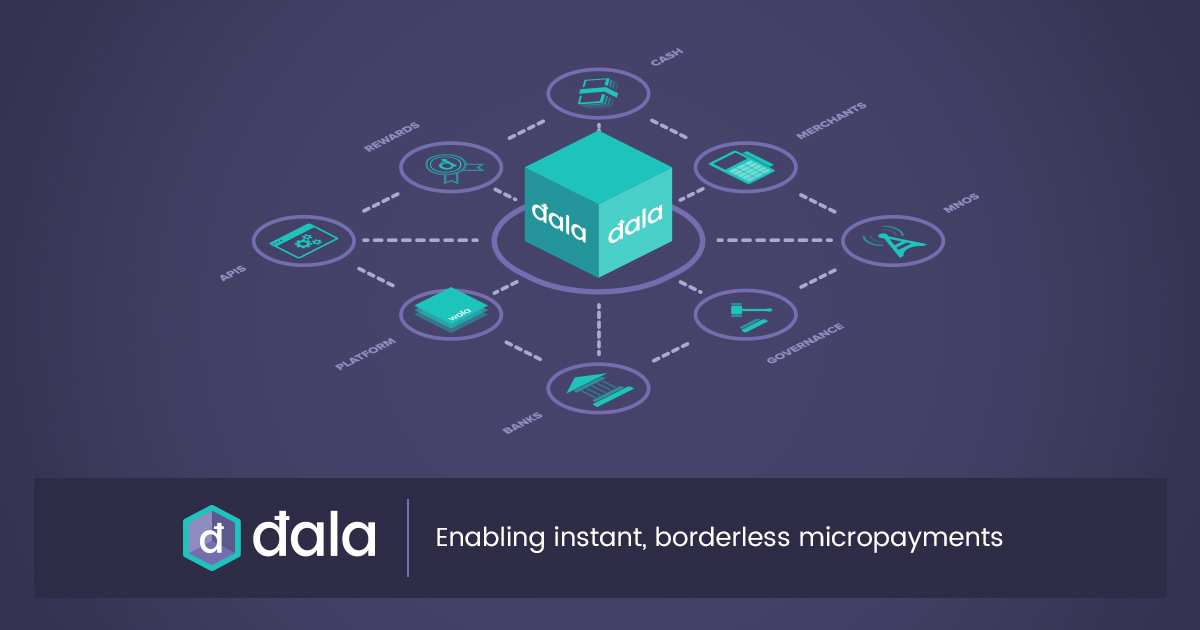
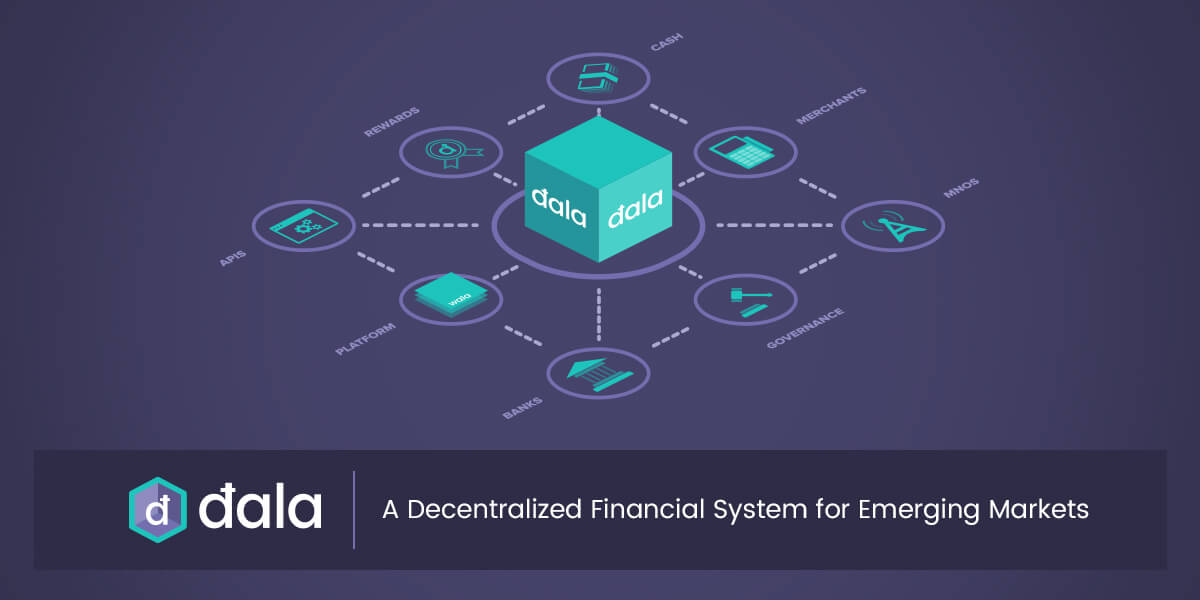
text changes and new section added

diff --git a/src/components/DalaProtocols/DalaProtocols.js b/src/components/DalaProtocols/DalaProtocols.js
@@ -1,0 +1,64 @@
+import React, { Component } from 'react';
+// styles
+import './DalaProtocols.css';
+
+// images
+import Soko from './images/soko.svg';
+import Kazi from './images/kazi.svg';
+import Kopa from './images/kopa.svg';
+
+class DalaProtocols extends Component {
+
+  render() {
+    return (
+      <section id="DalaProtocols" name="pageDalaProtocols">
+        <div className="container">
+          <div className="columns">
+            <div className="column is-8 is-offset-2">
+              <header className="section-header has-text-centered">
+                <h2 className="section-title">
+                  Dala Decentralized Protocols
+                </h2>
+                <h3 className="section-description">
+                  A core set of decentralized financial services are being built to drive immediate engagement in the Dala economy. These protocols will enable consumers to earn, save, borrow, and transact with Dala:
+                </h3>
+              </header>
+            </div>
+          </div>
+        </div>
+        <div className="container">
+          <div className="section-content">
+            <div className="columns is-desktop">
+              <div className="column is-one-third-desktop add-purplebg-1">
+                <div className="has-text-centered protocol-logo"><img alt="Kopa Protocol Logo" src={Kopa} /></div>
+                <p className="has-text-centered add-bold"> A decentralized and trustless lending protocol</p>
+                <div className="protocol-divider" />
+                <p>
+                  Kopa is a Dharma Protocol relayer dApp that will enable consumers to obtain Dala loans offered by Dala holders worldwide. Through Kopa, more efficiency will come to the lending market while those with Dala will be able to earn additional Dala through repaid loan interest.
+                </p>
+              </div>
+              <div className="column is-one-third-desktop add-purplebg-2">
+                <div className="has-text-centered protocol-logo"><img alt="Soko Protocol Logo" src={Soko} /></div>
+                <p className="has-text-centered add-bold">A decentralized and trustless marketplace for digital products and services</p>
+                <div className="protocol-divider" />
+                <p>
+                  Soko will enable any enterprise, small business, or entrepreneur to offer their existing or new digital services to anyone who wants to consume or relay them to their consumers. Products and services can range from financial instruments like a 24-hour insurance cover to utility products like airtime and electricity.
+                </p>
+              </div>
+              <div className="column is-one-third-desktop add-purplebg-3">
+                <div className="has-text-centered protocol-logo"><img alt="Kazi Protocol Logo" src={Kazi} /></div>
+                <p className="has-text-centered add-bold">A decentralized and trustless marketplace for microjobs</p>
+                <div className="protocol-divider" />
+                <p>
+                  Kazi will enable any organization to offer earning opportunities to users in the Dala network. The Kazi protocol defines a procedure for defining, administering, and fulfilling microjobs using a set of smart contracts and standardized interfaces.
+                </p>
+              </div>
+            </div>
+          </div>
+        </div>
+      </section>
+    );
+  }
+}
+
+export default DalaProtocols;

diff --git a/src/components/DalaEcosystem/DalaEcosystem.js b/src/components/DalaEcosystem/DalaEcosystem.js
@@ -25,7 +25,7 @@ class DalaEcosystem extends Component {
                   Dala Ecosystem
                 </h2>
                 <h3 className="section-description">
-                  Dala is designed to bring 3.5 billion underserved consumers into the formal financial system.
+                  Dala is designed to bring 3.5 billion underserved consumers into a new decentralized financial system.
                 </h3>
               </header>
             </div>
@@ -48,11 +48,7 @@ class DalaEcosystem extends Component {
                       <img alt="" src={DalaLogo}/>
                     </div>
                     <p>
-                      The Dala ecosystem expands through partnerships across borders and financial services, enabling
-                      consumers and enterprises to transact, save, lend, and invest with Dala. The Dala Foundation’s
-                      long-term goal is to maximize the value of the Dala ecosystem. The largest driver of Dala network
-                      value is the size and utility of the network to end-users, which the Foundation will drive
-                      through token rewards and the provision of software tools to enable the use of Dala.
+                      The Dala ecosystem expands across borders and financial services, enabling consumers to earn, save, borrow, and transact with Dala. The Dala Foundation’s long-term goal is to maximize the value of the Dala ecosystem. The largest driver of Dala network value is the size and utility of the network to end-users, which the Foundation drives through token rewards and the provision of decentralized protocols to enable the use of Dala.
                     </p>
                   </div>
                   <div className="hexagon-graphic">
@@ -63,7 +59,7 @@ class DalaEcosystem extends Component {
                       <img alt="" src={WalaLogo}/>
                     </div>
                     <p>
-                      The first application to make use of Dala is the Wala Financial Platform. Since launch (April 2018), the Dala token has had utility within the Wala Financial Platform where a user can transfer Dala to other Wala users for free, remit across borders, and redeem for airtime, data, and other value-added services. Together, the Dala token and the Wala Financial Platform are removing all barriers enabling zero-fee and accessible financial services.
+                      The first application to make use of Dala is the Wala Financial Platform. Since launch (April 2018), the Dala token has had utility within Wala where a user can send Dala to other Wala users at zero-fees, remit across borders, and purchase value-added services like mobile data, electricity, and tv services. Together, Dala and Wala are removing all barriers enabling zero-fee and accessible financial services.
                     </p>
                   </div>
                 </div>

diff --git a/src/components/AboutDala/AboutDala.js b/src/components/AboutDala/AboutDala.js
@@ -21,7 +21,7 @@ class AboutDala extends Component {
                   About Dala
                 </h2>
                 <h3 className="section-description">
-                  To enable a borderless financial system for emerging market consumers, a new crypto-token, Dala, was issued by the Dala Foundation.
+                  To enable a decentralized financial system for emerging market consumers, a new crypto-token, Dala, was issued by the Dala Foundation.
                 </h3>
               </header>
             </div>
@@ -34,10 +34,10 @@ class AboutDala extends Component {
                 <div className="columns is-desktop">
                   <div className="column float-on-desktop">
                     <p>
-                      The Dala utility token is a general-purpose ERC-20 cryptographic token developed by the Dala Foundation and issued on the public Ethereum blockchain. The token is fractionally divisible and is independent of all local currencies and cryptocurrencies. Consumers will be able to engage in the Dala ecosystem by making transfers using their own token wallets, via the Wala Financial Platform (Dala's launch partner), or through other applications built using the Dala API.
+                      Dala is an open source multi-chain crypto-asset issued on the public Ethereum blockchain. It can be transacted on a number of blockchains and can be used for consumption on a number of decentralized protocols. Through Dala protocols, consumers have access to borderless, low cost, efficient, and unique financial services enabling them to earn, save, borrow, and transact in a new decentralized financial system. Today, consumers can engage in the Dala ecosystem by making transfers using their own token wallets, via Wala (Dala's launch partner), or through other applications built using the Dala API.
                     </p>
                     <p>
-                      The Dala Foundation is a private exempted company incorporated in the Cayman Islands and is intended to become a fully-decentralized autonomous organization (known as a DAO). However, due to the infancy of the crypto governance space, the Dala Foundation will assist with providing a governance forum, administer and maintain the Dala token economy in the short-term.
+                      The Dala Foundation is a private exempted company incorporated in the Cayman Islands and is intended to become a fully-decentralized autonomous organization (DAO). However, due to the infancy of the crypto governance space, the Dala Foundation will assist with providing a governance forum, administer and maintain the Dala token economy in the short-term.
                     </p>
                   </div>
                   <div className="column is-offset-5-desktop is-7-desktop is-offset-4-widescreen is-8-widescreen">

diff --git a/public/index.html b/public/index.html
@@ -14,22 +14,22 @@
 
     <link rel="shortcut icon" href="%PUBLIC_URL%/favicon.ico">
 
-    <title>Dala | Enabling instant, borderless micropayments</title>
-    <meta name="description" content="Dala, a cryptocurrency, designed to bring 3.5 billion people underserved consumers into the formal financial system. Learn more & become an ecosystem partner.">
+    <title>Dala | A Decentralized Financial System for Emerging Markets</title>
+    <meta name="description" content="Dala, an open source multi-chain crypto-asset and decentralized financial system enabling consumers to save, earn, borrow, and transact. Get in touch to learn more.">
     <link async href="https://fonts.googleapis.com/css?family=Poppins:300,400,600" rel="stylesheet">
     <link rel="stylesheet" type="text/css" charset="UTF-8" href="https://cdnjs.cloudflare.com/ajax/libs/slick-carousel/1.6.0/slick.min.css" />
     <link rel="stylesheet" type="text/css" href="https://cdnjs.cloudflare.com/ajax/libs/slick-carousel/1.6.0/slick-theme.min.css" />
 
-    <meta property="og:title" content="Dala | Enabling instant, borderless micropayments" />
-    <meta property="og:description" content="Dala, a cryptocurrency, designed to bring 3.5 billion people underserved consumers into the formal financial system. Learn more & become an ecosystem partner." />
+    <meta property="og:title" content="Dala | A Decentralized Financial System for Emerging Markets" />
+    <meta property="og:description" content="Dala, an open source multi-chain crypto-asset and decentralized financial system enabling consumers to save, earn, borrow, and transact. Get in touch to learn more." />
     <meta property="og:image" content="%PUBLIC_URL%/fb_social.jpg" />
     <meta property="og:url" content="https://dala.org" />
 
     <meta name="twitter:card" content="summary_large_image" />
     <meta name="twitter:site" content="https://dala.org" />
     <meta name="twitter:creator" content="@DalaFoundation" />
-    <meta name="twitter:title" content="Dala | Enabling instant, borderless micropayments" />
-    <meta name="twitter:description" content="Dala, a cryptocurrency, designed to bring 3.5 billion people underserved consumers into the formal financial system. Learn more & become an ecosystem partner." />
+    <meta name="twitter:title" content="Dala | A Decentralized Financial System for Emerging Markets" />
+    <meta name="twitter:description" content="Dala, an open source multi-chain crypto-asset and decentralized financial system enabling consumers to save, earn, borrow, and transact. Get in touch to learn more." />
     <meta name="twitter:image" content="%PUBLIC_URL%/twitter_social.jpg" />
 
     <script>

diff --git a/src/components/DalaProtocols/DalaProtocols.scss b/src/components/DalaProtocols/DalaProtocols.scss
@@ -1,0 +1,105 @@
+@import '../../utils/styles/all';
+
+#DalaProtocols {
+  padding-bottom: gridbase-multiplier(4);
+  margin-right: 36px;
+  margin-left: 36px;
+
+  .section-header {
+    padding-bottom: gridbase-multiplier(2);
+  }
+
+  .section-content {
+    .columns {
+      @include border-radius;
+
+      box-shadow: $layout-elevation-3;
+      position: relative;
+
+      .add-purplebg-1 {
+        background: $color-walateal-shade3;
+
+        @media screen and (min-width: $desktop) {
+          border-bottom-left-radius: 3px;
+        }
+
+        .protocol-logo {
+          height: 78px;
+          margin-top: 26px;
+
+          img {
+            height: 52px
+          }
+        }
+      }
+      .add-purplebg-2 {
+        background: $color-walateal-shade2;
+
+        .protocol-logo {
+          height: 78px;
+          margin-top: 26px;
+
+          img {
+            height: 42px
+          }
+        }
+      }
+      .add-purplebg-3 {
+        background: $color-walateal-shade3;
+
+        @media screen and (min-width: $desktop) {
+          border-bottom-right-radius: 3px;
+        }
+
+        .protocol-logo {
+          height: 78px;
+          margin-top: 26px;
+
+          img {
+            height: 40px
+          }
+        }
+      }
+    }
+
+    p {
+      color: white;
+      margin-right: 18px;
+      margin-left: 18px;
+      padding-left: 18px;
+      padding-right: 18px;
+
+      @media screen and (min-width: $desktop) {
+        margin-right: 0;
+        margin-left: 0;
+        max-width: 434px;
+      }
+    }
+
+    .add-bold {
+      font-family: 'poppins_regular', sans-serif;
+      font-size: 16px;
+      line-height: 26px;
+      position: relative;
+
+      @media screen and (min-width: $desktop) {
+        height: 78px;
+      }
+      @media screen and (min-width: $fullhd) {
+        height: 65px;
+      }
+    }
+
+    .protocol-divider {
+      width: 70%;
+      margin: 0 auto 26px auto;
+      height: 4px;
+      background-color: $color-walateal-shade1;
+    }
+  }
+
+  @media screen and (min-width: $desktop) {
+    margin-right: 0;
+    margin-left: 0;
+  }
+}

diff --git a/src/components/ProductTimeline/ProductTimeline.js b/src/components/ProductTimeline/ProductTimeline.js
@@ -48,7 +48,7 @@ class ProductTimeline extends Component {
                       <img src={DalaTokenBlank} alt=""/>
                       <span>OCT<br/>2017</span>
                     </div>
-                    <div className="timeline-content"><span>Dala Foundation annouces the issuance of a crypto-token that enables zero-fee and instantaneous micro transactions for the masses.</span>
+                    <div className="timeline-content"><span>Dala Foundation announces the issuance of a crypto-token that enables zero-fee and instantaneous micro transactions for the masses.</span>
                     </div>
                   </li>
                   <li className="is-clearfix is-flex-desktop">
@@ -64,15 +64,15 @@ class ProductTimeline extends Component {
                       <span>Q1<br/>2018</span>
                       <img src={DalaTokenBlank} alt=""/>
                     </div>
-                    <div className="timeline-content"><span>Launch Dala wallet with functionality to earn, redeeem, and transact with Dala.<br/><br/>Expand the Dala ecosystem through enterprise partnerships.</span>
+                    <div className="timeline-content"><span>Dala wallet launched with functionality to earn, redeem, and transact with Dala.</span>
                     </div>
                   </li>
                   <li className="is-clearfix is-flex-desktop">
                     <div className="timeline-date">
-                      <span>Q2<br/>2018</span>
+                      <span>Q3<br/>2018</span>
                       <img src={DalaTokenBlank} alt=""/>
                     </div>
-                    <div className="timeline-content"><span>Release Dala Enterprise rewards engine.</span></div>
+                    <div className="timeline-content"><span>Release first Dala decentralized protocols to expand Dala ecosystem and utility.</span></div>
                   </li>
                 </ul>
               </div>

diff --git a/src/components/RewardsEngine/RewardsEngine.js b/src/components/RewardsEngine/RewardsEngine.js
@@ -28,10 +28,10 @@ class RewardsEngine extends Component {
             <div className="columns is-desktop">
               <div className="column float-on-desktop rewards-engine-content">
                 <p>
-                  To enable a robust Dala ecosystem, the Dala Foundation will incentivize users and ecosystem partners through a rewards model. The Dala token rewards model has been proven, supports the acquisition of billions of consumers globally and drives adoption of merchants, SMEs, and enterprises.
+                  To enable a robust Dala ecosystem, the Dala Foundation incentivizes users and ecosystem partners through a rewards model. The Dala token rewards model has been proven, supports the acquisition of billions of consumers globally and drives adoption of merchants, SMEs, and enterprises.
                 </p>
                 <p>
-                  As the first partner of Dala, Wala is driving critical early adoption of Dala. Over time, the Dala Foundation will attract new partner platforms and providers to the Dala ecosystem using a combination of rewards and open-sourced APIs and SDKs, building a robust Dala economy, independent from Wala.
+                  As the first partner of Dala, Wala is driving critical early adoption of Dala. Over time, the Dala Foundation will attract new platforms and providers to the Dala ecosystem using a combination of rewards and decentralized protocols, building a robust Dala economy, independent from Wala.
                 </p>
               </div>
               <div className="column is-offset-5-desktop is-7-desktop is-offset-4-widescreen is-8-widescreen">

diff --git a/src/components/Hero/Hero.js b/src/components/Hero/Hero.js
@@ -22,8 +22,8 @@ class Hero extends Component {
         <div className="dala-cube-animation-wrapper"><DalaCubeAnimation /></div>
         <div className="hero-content">
           <div className="dala-wordmark-wrapper"><DalaWordmark /></div>
-          <h1 className="hero-h1">Enabling instant, borderless micropayments</h1>
-          <h2 className="hero-h2">Designed to include 3.5 billion people in a new financial system</h2>
+          <h1 className="hero-h1">A Decentralized Financial System for Emerging Markets</h1>
+          <h2 className="hero-h2">Enabling consumers to save, earn, borrow, and transact</h2>
           <div className="learn-more">
             <Link to="pageAboutDala" smooth offset={-85} onClick={() => { ReactGA.event({
               category: 'Learn More',

diff --git a/src/components/App/App.js b/src/components/App/App.js
@@ -11,6 +11,7 @@ import '../../utils/styles/boilerplate.css';
 import Hero from '../Hero/Hero';
 import AboutDala from '../AboutDala/AboutDala';
 import DalaEcosystem from '../DalaEcosystem/DalaEcosystem';
+import DalaProtocols from '../DalaProtocols/DalaProtocols';
 import RewardsEngine from '../RewardsEngine/RewardsEngine';
 import DalaGovernance from '../DalaGovernance/DalaGovernance';
 import ProductTimeline from '../ProductTimeline/ProductTimeline';
@@ -39,6 +40,7 @@ class App extends Component {
           <Hero />
           <AboutDala />
           <DalaEcosystem />
+          <DalaProtocols />
           <RewardsEngine />
           <DalaGovernance />
           <ProductTimeline />
